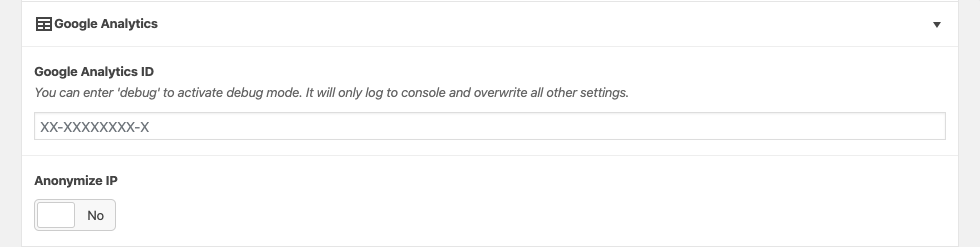
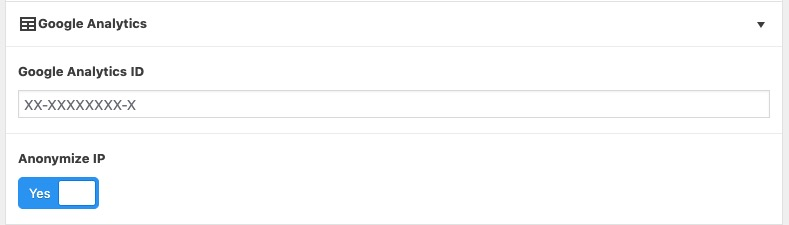
feat(FeatureGoogleAnalytics): Removed unused options and modified to fit opt in

diff --git a/Components/FeatureGoogleAnalytics/script.js b/Components/FeatureGoogleAnalytics/script.js
@@ -1,0 +1,98 @@
+import $ from 'jquery'
+import Cookies from 'js-cookie'
+
+const $document = $(document)
+
+class FeatureGoogleAnalytics extends window.HTMLDivElement {
+  constructor(self){
+    window.$ = window.jQuery
+    self = super(self)
+    self.$ = window.$(self)
+    self.props = self.getInitialProps()
+    self.resolveElements()
+    self.bindFunctions()
+    return self
+  }
+
+  getInitialProps () {
+    let data = {}
+    try {
+      data = JSON.parse($('script[type="application/json"]', this).text())
+    } catch (e) {
+      console.log(e)
+    }
+    return data
+  }
+
+  resolveElements () {
+    this.$acceptButton = $('[data-accept]', this)
+    this.$declineButton = $('[data-decline]', this)
+    this.gaId = this.props.gaId ? this.props.gaId : false
+    this.serverSideTrackingEnabled = this.props.serverSideTrackingEnabled ? this.props.serverSideTrackingEnabled : false
+    this.disableStr = 'ga-disable-' + this.props.gaId
+  }
+
+  bindFunctions () {
+    this.addGTAGFunction = this.addGTAGFunction.bind(this)
+    this.addGTAGFunctionFallback = this.addGTAGFunctionFallback.bind(this)
+    this.addGTAGScript = this.addGTAGScript.bind(this)
+    this.trackingChanged = this.trackingChanged.bind(this)
+  }
+
+  connectedCallback () {
+    if (this.props.isOptInComponentRegistered) {
+      $document.on('trackingChanged', this.trackingChanged)
+      this.addGTAGFunctionFallback()
+    } else {
+      if(!this.GTAGscriptElement){
+        this.addGTAGScript()
+      }
+      this.addGTAGFunction()
+    }
+  }
+
+  trackingChanged (event, trackingObject) {
+    if(typeof trackingObject.GA_accept !== 'undefined' && trackingObject.GA_accept && this.gaId && this.serverSideTrackingEnabled){
+      window[this.disableStr] = false
+      Cookies.remove(this.disableStr)
+      if(!this.GTAGscriptElement){
+        this.addGTAGScript()
+      }
+      this.addGTAGFunction()
+    }else{
+      window[this.disableStr] = true
+      Cookies.set(this.disableStr, true)
+      if(this.GTAGscriptElement){
+        this.GTAGscriptElement.remove()
+      }
+      this.addGTAGFunctionFallback()
+    }
+  }
+
+
+  addGTAGScript () {
+    const scriptUrl = `https://www.googletagmanager.com/gtag/js?id=${this.gaId}`
+    this.GTAGscriptElement = document.createElement('script')
+    this.GTAGscriptElement.async = true
+    this.GTAGscriptElement.type = 'text/javascript'
+    this.GTAGscriptElement.src = scriptUrl
+    document.head.appendChild(this.GTAGscriptElement)
+  }
+
+  addGTAGFunction () {
+    window.dataLayer = window.dataLayer || []
+    window.gtag = function () {
+      window.dataLayer.push(arguments)
+    }
+    window.gtag('js', new Date())
+    window.gtag('config', this.gaId, { anonymize_ip: true })
+  }
+
+  addGTAGFunctionFallback () {
+    window.gtag = function () {
+      console.log('GoogleAnalytics: ' + [].slice.call(arguments))
+    }
+  }
+}
+
+window.customElements.define('flynt-google-analytics', FeatureGoogleAnalytics, { extends: 'div' })

diff --git a/Components/FeatureGoogleAnalytics/functions.php b/Components/FeatureGoogleAnalytics/functions.php
@@ -2,20 +2,61 @@
 
 namespace Flynt\Components\FeatureGoogleAnalytics;
 
-require_once __DIR__ . '/GoogleAnalytics.php';
+require_once __DIR__ . '/helpers.php';
 
-use Flynt\Components\FeatureGoogleAnalytics\GoogleAnalytics;
 use Flynt\Utils\Options;
+use Timber\Loader;
+use Flynt\Utils\TwigExtensionFlynt;
+use Timber\Timber;
 
-add_action('init', 'Flynt\Components\FeatureGoogleAnalytics\init');
-
-function init()
-{
+add_filter('Flynt/addComponentData?name=FeatureGoogleAnalytics', function ($data) {
     $googleAnalyticsOptions = Options::getGlobal('GoogleAnalytics');
+
     if ($googleAnalyticsOptions) {
-        new GoogleAnalytics($googleAnalyticsOptions);
+        $data['jsonData'] = json_encode([
+            'gaId' => $googleAnalyticsOptions['gaId'],
+            'serverSideTrackingEnabled' => isTrackingEnabled($googleAnalyticsOptions['gaId']),
+            'isOptInComponentRegistered' => apply_filters('Flynt/BlockCookieOptIn', false),
+        ]);
     }
+
+    return $data;
+});
+
+$isActive = apply_filters('Flynt/BlockCookieOptIn', false);
+
+if ($isActive) {
+    Options::addTranslatable('GoogleAnalytics', [
+        [
+            'label' => 'Accept Google Analytics label',
+            'name' => 'acceptGoogleAnalyticsLabel',
+            'type' => 'text',
+            'default_value' => 'Google Analytics Cookies',
+            'required' => 1,
+        ],
+    ]);
 }
+
+add_action('wp_footer', function () {
+    $loader = new Loader();
+    $env = $loader->get_twig();
+    $twig = new TwigExtensionFlynt();
+    $context = Timber::get_context();
+    echo $twig->renderComponent($env, $context, 'FeatureGoogleAnalytics');
+});
+
+add_filter('Flynt/thirdPartyCookies', function ($features) {
+    $googleAnalyticsTranslatableOptions = Options::getTranslatable('GoogleAnalytics');
+
+    $features = array_merge($features, [
+        [
+            'id' => 'GA_accept',
+            'name' => 'GA_accept',
+            'label' => $googleAnalyticsTranslatableOptions['acceptGoogleAnalyticsLabel'],
+        ]
+    ]);
+    return $features;
+});
 
 Options::addGlobal('GoogleAnalytics', [
     [
@@ -26,38 +67,15 @@ Options::addGlobal('GoogleAnalytics', [
         'prepend' => '',
         'append' => '',
         'placeholder' => 'XX-XXXXXXXX-X',
-        'instructions' => 'You can enter \'debug\' to activate debug mode. It will only log to console and overwrite all other settings.'
     ],
     [
         'name' => 'anonymizeIp',
         'label' => 'Anonymize IP',
         'type' => 'true_false',
         'ui' => 'no',
-        'ui_on_text' => '',
-        'ui_off_text' => '',
+        'default' => 1,
+        'ui_on_text' => 'Yes',
+        'ui_off_text' => 'No',
         'message' => ''
     ],
-    [
-        'name' => 'skippedUserRoles',
-        'label' => 'Skipped User Roles',
-        'type' => 'checkbox',
-        'choices' => [
-            'administrator' => 'Administrator',
-            'editor' => 'Editor',
-            'author' => 'Author',
-            'contributor' => 'Contributor',
-            'subscriber' => 'Subscriber'
-        ],
-        'toggle' => 'All',
-        'allow_custom' => 0,
-        'save_custom' => 0,
-        'layout' => 'vertical'
-    ],
-    [
-        'name' => 'skippedIps',
-        'label' => 'Skipped IPs',
-        'type' => 'textarea',
-        'maxlength' => 500,
-        'placeholder' => 'Separate IP addresses with commas'
-    ]
 ]);

diff --git a/Components/FeatureGoogleAnalytics/helpers.php b/Components/FeatureGoogleAnalytics/helpers.php
@@ -1,0 +1,13 @@
+<?php
+
+namespace Flynt\Components\FeatureGoogleAnalytics;
+
+function isTrackingEnabled($gaId)
+{
+    if ($gaId) {
+        $user = wp_get_current_user();
+        $trackingEnabled = !in_array('administator', $user->roles);
+        return $trackingEnabled;
+    }
+    return false;
+}

diff --git a/Components/FeatureGoogleAnalytics/README.md b/Components/FeatureGoogleAnalytics/README.md
@@ -1,3 +1,10 @@
-# Feature Google Analytics
+# Google Analytics
 
-If a Google Analytics ID is provided in Global Options, the tracking code will be added to all pages, expect for logged in WordPress admins. Entering "debug" instead will log to the browser console only.
+Enable the Google Analytics tracking configuration in the WordPress back end.
+
+If a valid Google Analytics ID is provided, the tracking code will automatically be added to all pages.
+
+The following options are provided under the **"Global Options"** menu:
+
+- Google Analytics ID: This must be a valid Google Analytics ID.
+- Anonymize IP: Check to enable the Google Analytics `_anonymizeIp` function and anonymize the last digits of the user's IP.
